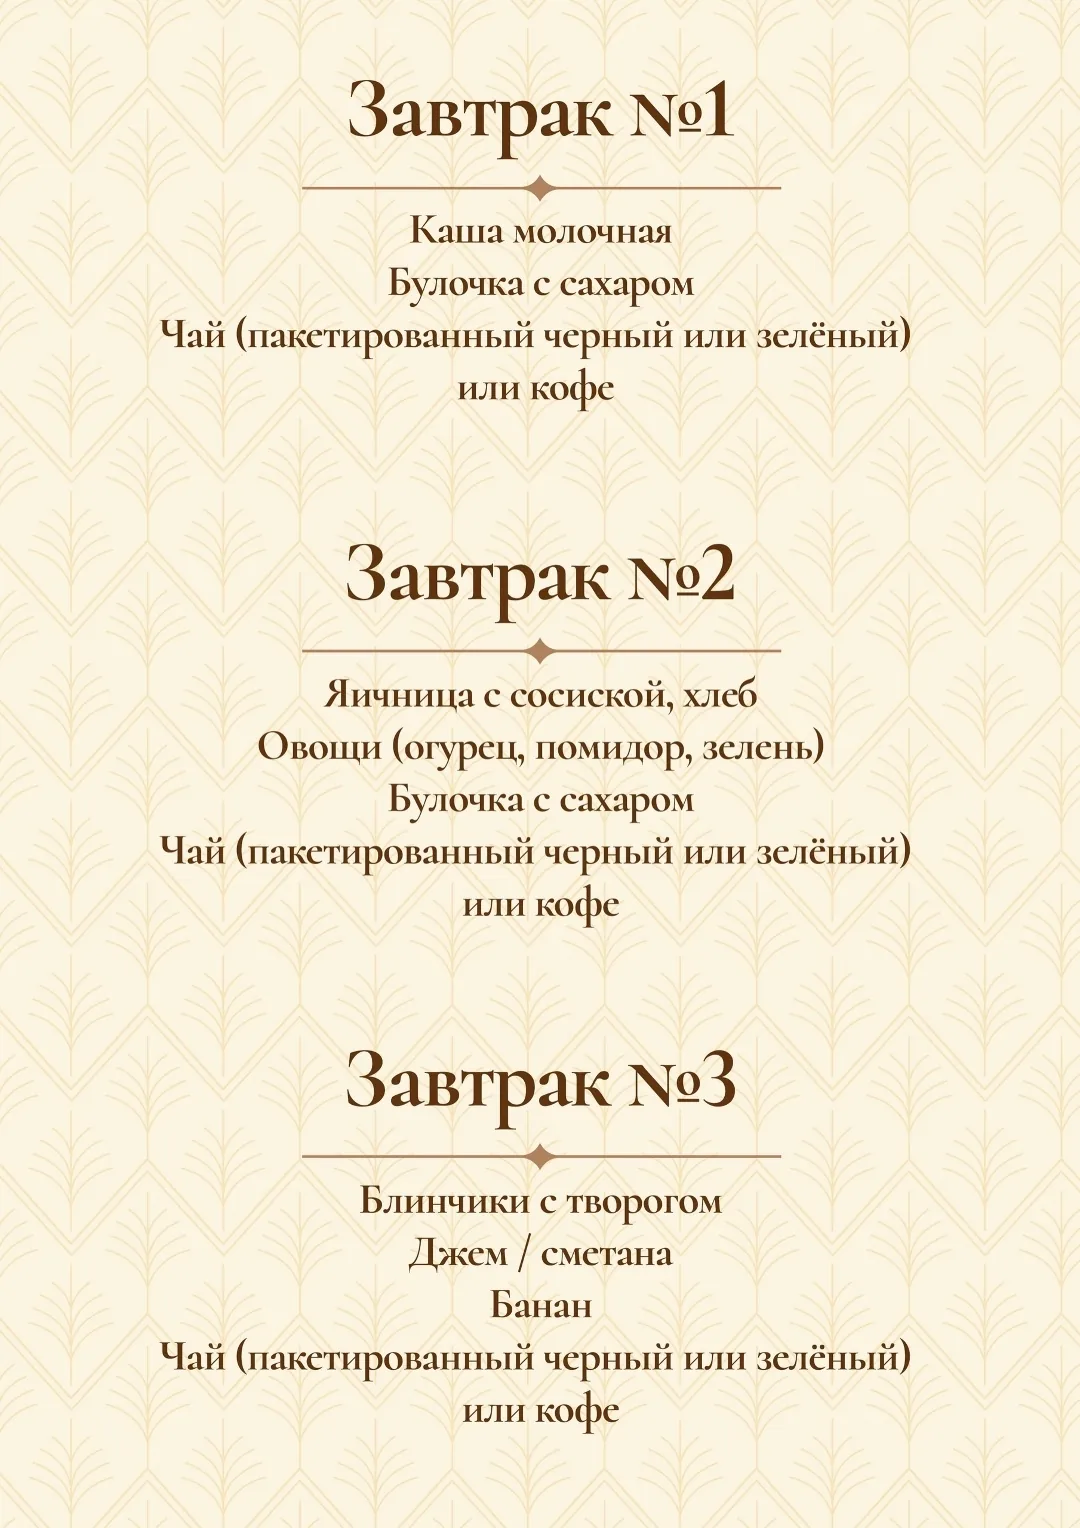
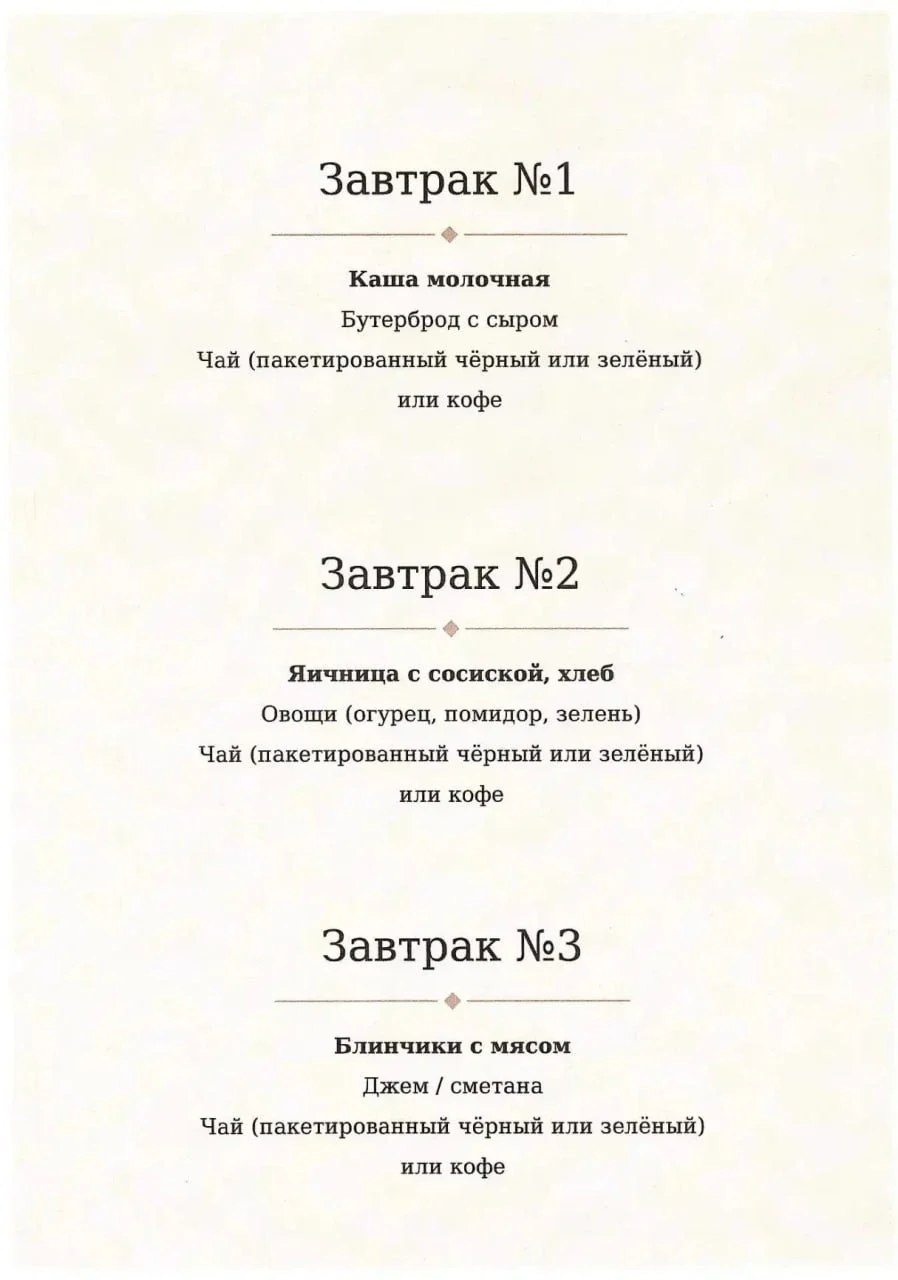
адрес для писем с заявками задаётся в админке, есть тестовое письмо и журнал отправки; на сайте 22 номера, описание номера King Size и актуальное меню завтраков

diff --git a/assets/css/admin.css b/assets/css/admin.css
@@ -28,6 +28,12 @@ button,input,textarea,select { font:inherit; }
 .admin-heading h1 { margin:0; font-size:42px; letter-spacing:-.04em; }
 .admin-heading a { color:var(--accent); font-weight:650; }
 .saved { margin-bottom:22px; padding:13px 16px; border-radius:10px; background:#e0f2e5; color:#21633c; }
+.saved.error { background:#fce9e7; color:#8a332a; }
+.settings-actions { display:flex; flex-wrap:wrap; gap:10px; }
+.settings-actions button { min-width:160px; min-height:46px; padding:0 20px; border:0; border-radius:999px; background:var(--accent); color:#fff; font-weight:700; cursor:pointer; }
+.settings-actions .secondary { background:#fff; color:var(--accent); box-shadow:inset 0 0 0 1px var(--accent); }
+.request-list article > p.notify { margin:-8px 0 16px; padding:0; background:none; font-size:13px; }
+.notify-sent { color:#21633c !important; }.notify-failed { color:#8a332a !important; }.notify-none { color:var(--muted); }
 .editor { padding:30px; border:1px solid var(--line); border-radius:var(--radius); background:var(--panel); display:grid; gap:22px; }
 .editor textarea { resize:vertical; line-height:1.5; }
 .editor > button { justify-self:start; min-width:160px; }

diff --git a/app/bootstrap.php b/app/bootstrap.php
@@ -2,6 +2,7 @@
 declare(strict_types=1);
 
 session_start();
+date_default_timezone_set('Europe/Moscow');
 
 const ROOT_DIR = __DIR__ . '/..';
 const DB_FILE = ROOT_DIR . '/var/parkhotel.sqlite';
@@ -49,6 +50,15 @@ function db(): PDO
         status TEXT NOT NULL DEFAULT "new",
         created_at TEXT NOT NULL
     )');
+    $pdo->exec('CREATE TABLE IF NOT EXISTS settings (
+        key TEXT PRIMARY KEY,
+        value TEXT NOT NULL,
+        updated_at TEXT NOT NULL
+    )');
+    $requestColumns = array_column($pdo->query('PRAGMA table_info(requests)')->fetchAll(), 'name');
+    if (!in_array('notify_status', $requestColumns, true)) {
+        $pdo->exec('ALTER TABLE requests ADD COLUMN notify_status TEXT NOT NULL DEFAULT ""');
+    }
     $pdo->exec("UPDATE requests SET status = 'confirmed' WHERE status IN ('working', 'done')");
     $pdo->exec("UPDATE requests SET status = 'cancelled' WHERE status = 'canceled'");
 
@@ -262,16 +272,102 @@ function save_uploaded_file(array $file): array
     ];
 }
 
-function notify_request(array $request): void
+function setting_get(string $key, string $default = ''): string
 {
-    $email = env_value('PARKHOTEL_NOTIFY_EMAIL');
-    if (!$email) {
-        return;
+    $stmt = db()->prepare('SELECT value FROM settings WHERE key = ?');
+    $stmt->execute([$key]);
+    $value = $stmt->fetchColumn();
+    return $value === false ? $default : (string) $value;
+}
+
+function setting_set(string $key, string $value): void
+{
+    $stmt = db()->prepare('INSERT INTO settings (key, value, updated_at) VALUES (?, ?, ?) ON CONFLICT(key) DO UPDATE SET value = excluded.value, updated_at = excluded.updated_at');
+    $stmt->execute([$key, $value, date(DATE_ATOM)]);
+}
+
+/** Разбирает строку адресов через запятую или точку с запятой. Возвращает [корректные, некорректные]. */
+function parse_email_list(string $raw): array
+{
+    $valid = [];
+    $invalid = [];
+    foreach (preg_split('~[\s,;]+~u', $raw, -1, PREG_SPLIT_NO_EMPTY) ?: [] as $item) {
+        if (filter_var($item, FILTER_VALIDATE_EMAIL)) {
+            $valid[strtolower($item)] ??= $item;
+        } else {
+            $invalid[] = $item;
+        }
+    }
+    return [array_values($valid), $invalid];
+}
+
+/** Адреса получателей заявок: настройка из админки, иначе переменная окружения. */
+function notify_emails(): array
+{
+    $raw = setting_get('notify_email');
+    if (trim($raw) === '') {
+        $raw = (string) env_value('PARKHOTEL_NOTIFY_EMAIL', '');
+    }
+    return parse_email_list($raw)[0];
+}
+
+function mail_from_address(): string
+{
+    return env_value('PARKHOTEL_MAIL_FROM') ?: 'noreply@parkhotelvp.ru';
+}
+
+function mail_log(string $line): void
+{
+    $file = ROOT_DIR . '/var/mail.log';
+    @file_put_contents($file, date(DATE_ATOM) . ' ' . $line . "\n", FILE_APPEND | LOCK_EX);
+}
+
+/** Отправляет текстовое письмо через mail(). Возвращает true, если почтовая служба хоста приняла письмо. */
+function send_mail(string $to, string $subject, string $body): bool
+{
+    $from = mail_from_address();
+    $fromHeader = '=?UTF-8?B?' . base64_encode('Парк-Отель') . '?= <' . $from . '>';
+    $headers = [
+        'From: ' . $fromHeader,
+        'MIME-Version: 1.0',
+        'Content-Type: text/plain; charset=UTF-8',
+        'Content-Transfer-Encoding: base64',
+        'Message-ID: <' . bin2hex(random_bytes(12)) . '@' . substr(strrchr($from, '@'), 1) . '>',
+        'X-Auto-Response-Suppress: All',
+    ];
+    $encodedSubject = '=?UTF-8?B?' . base64_encode(preg_replace('~[\r\n]+~', ' ', $subject)) . '?=';
+    $message = chunk_split(base64_encode($body));
+
+    $sent = @mail($to, $encodedSubject, $message, implode("\r\n", $headers), '-f' . $from);
+    if (!$sent) {
+        $sent = @mail($to, $encodedSubject, $message, implode("\r\n", $headers));
+    }
+    mail_log(($sent ? 'ok   ' : 'FAIL ') . $to . ' | ' . $subject);
+    return $sent;
+}
+
+/** Рассылает заявку получателям. Возвращает статус для списка заявок: sent, failed или none (адрес не задан). */
+function notify_request(array $request): string
+{
+    $emails = notify_emails();
+    if (!$emails) {
+        mail_log('skip  адрес получателя заявок не задан | ' . $request['type']);
+        return 'none';
     }
 
     $subject = 'Новая заявка: ' . $request['type'];
-    $body = "Имя: {$request['name']}\nТелефон: {$request['phone']}";
-    @mail($email, $subject, $body, 'Content-Type: text/plain; charset=UTF-8');
+    $body = "Новая заявка с сайта parkhotelvp.ru\n\n"
+        . "Раздел: {$request['type']}\n"
+        . "Имя: {$request['name']}\n"
+        . "Телефон: {$request['phone']}\n"
+        . 'Время: ' . date('d.m.Y H:i') . "\n\n"
+        . "Все заявки и статусы: https://parkhotelvp.ru/admin\n";
+
+    $sent = 0;
+    foreach ($emails as $email) {
+        $sent += send_mail($email, $subject, $body) ? 1 : 0;
+    }
+    return $sent > 0 ? 'sent' : 'failed';
 }
 
 db();

diff --git a/app/view-admin.php b/app/view-admin.php
@@ -1,6 +1,14 @@
 <?php
-$editing = $adminPage !== 'requests' ? page_by_slug($adminPage) : null;
+$isSettings = $adminPage === 'settings';
+$editing = !in_array($adminPage, ['requests', 'settings'], true) ? page_by_slug($adminPage) : null;
 $statusLabels = ['new' => 'Новая', 'confirmed' => 'Подтверждена', 'cancelled' => 'Отменена'];
+$notifyLabels = ['sent' => 'Письмо отправлено', 'failed' => 'Письмо не отправилось', 'none' => 'Адрес для писем не задан'];
+$mailMessages = [
+    'testok' => ['ok', 'Тестовое письмо передано почтовой службе. Проверьте ящик, а если там пусто, то и папку «Спам».'],
+    'testfail' => ['error', 'Почтовая служба хостинга не приняла письмо. Подробности в var/mail.log на сервере.'],
+    'noaddr' => ['error', 'Сначала укажите адрес и сохраните.'],
+    'badaddr' => ['error', 'В адресе ошибка, настройки не сохранены. Проверьте написание.'],
+];
 ?>
 <!doctype html>
 <html lang="ru">
@@ -15,6 +23,7 @@ $statusLabels = ['new' => 'Новая', 'confirmed' => 'Подтверждена
     <div class="admin-title"><img class="admin-logo" src="/assets/images/logo-mark.png" alt="" width="46" height="46"><b>Парк-Отель</b></div>
     <nav>
         <a class="<?= $adminPage === 'requests' ? 'active' : '' ?>" href="/admin">Заявки <span><?= count(array_filter($requests, fn($r) => $r['status'] === 'new')) ?></span></a>
+        <a class="<?= $isSettings ? 'active' : '' ?>" href="/admin?page=settings">Настройки</a>
         <p>Страницы</p>
         <?php foreach (all_pages() as $item): ?>
             <a class="<?= $adminPage === $item['slug'] ? 'active' : '' ?>" href="/admin?page=<?= e($item['slug']) ?>"><?= e($item['h1']) ?></a>
@@ -24,7 +33,22 @@ $statusLabels = ['new' => 'Новая', 'confirmed' => 'Подтверждена
 </aside>
 <main class="admin-main">
     <?php if (isset($_GET['saved'])): ?><div class="saved">Изменения сохранены</div><?php endif; ?>
-    <?php if ($editing): ?>
+    <?php if (isset($mailMessages[$_GET['mail'] ?? ''])): [$mailClass, $mailText] = $mailMessages[$_GET['mail']]; ?><div class="saved <?= $mailClass ?>"><?= e($mailText) ?></div><?php endif; ?>
+    <?php if ($isSettings): ?>
+        <div class="admin-heading"><div><p>Параметры сайта</p><h1>Настройки</h1></div></div>
+        <form class="editor" method="post">
+            <input type="hidden" name="csrf" value="<?= csrf_token() ?>">
+            <label>Куда присылать заявки
+                <input name="notify_email" type="text" inputmode="email" autocomplete="off" placeholder="name@yandex.ru" value="<?= e(implode(', ', notify_emails())) ?>">
+            </label>
+            <p class="editor-hint">Новая заявка с сайта придёт письмом на этот адрес. Можно указать несколько адресов через запятую. Пустое поле выключает письма, заявки останутся в разделе «Заявки».</p>
+            <div class="settings-actions">
+                <button name="save_settings" value="1">Сохранить</button>
+                <button class="secondary" name="send_test_mail" value="1" formnovalidate>Отправить тестовое письмо</button>
+            </div>
+            <p class="editor-hint">Тестовое письмо уходит на уже сохранённый адрес. Сначала нажмите «Сохранить», потом проверку.</p>
+        </form>
+    <?php elseif ($editing): ?>
         <div class="admin-heading">
             <div><p>Редактирование страницы</p><h1><?= e($editing['h1']) ?></h1></div>
             <a href="<?= $editing['slug'] === 'home' ? '/' : '/' . $editing['slug'] . '/' ?>" target="_blank">Открыть страницу</a>
@@ -65,6 +89,7 @@ $statusLabels = ['new' => 'Новая', 'confirmed' => 'Подтверждена
                 <?php foreach ($requests as $request): ?>
                     <article>
                         <header><div><span class="status status-<?= e($request['status']) ?>"><?= e($statusLabels[$request['status']] ?? 'Новая') ?></span><h2><?= e($request['type']) ?></h2></div><time><?= e(date('d.m.Y H:i', strtotime($request['created_at']))) ?></time></header>
+                        <?php if (!empty($request['notify_status'])): ?><p class="notify notify-<?= e($request['notify_status']) ?>"><?= e($notifyLabels[$request['notify_status']] ?? '') ?></p><?php endif; ?>
                         <dl><div><dt>Имя</dt><dd><?= e($request['name']) ?></dd></div><div><dt>Телефон</dt><dd><a href="tel:<?= e($request['phone']) ?>"><?= e($request['phone']) ?></a></dd></div></dl>
                         <form method="post">
                             <input type="hidden" name="csrf" value="<?= csrf_token() ?>">

diff --git a/index.php b/index.php
@@ -9,15 +9,23 @@ if ($path === 'api/request' && $_SERVER['REQUEST_METHOD'] === 'POST') {
     header('Content-Type: application/json; charset=utf-8');
     try {
         verify_csrf();
-        $name = trim((string) ($_POST['name'] ?? ''));
-        $phone = trim((string) ($_POST['phone'] ?? ''));
-        $type = trim((string) ($_POST['type'] ?? 'Обратная связь'));
+        $name = mb_substr(trim((string) ($_POST['name'] ?? '')), 0, 120);
+        $phone = mb_substr(trim((string) ($_POST['phone'] ?? '')), 0, 40);
+        $type = mb_substr(trim((string) ($_POST['type'] ?? 'Обратная связь')), 0, 80);
         if (mb_strlen($name) < 2 || mb_strlen($phone) < 6) {
             throw new InvalidArgumentException('Укажите имя и телефон.');
         }
         $stmt = db()->prepare('INSERT INTO requests (type, name, phone, email, message, created_at) VALUES (?, ?, ?, ?, ?, ?)');
         $stmt->execute([$type, $name, $phone, '', '', date(DATE_ATOM)]);
-        notify_request(compact('type', 'name', 'phone'));
+        $requestId = (int) db()->lastInsertId();
+        // Заявка уже сохранена: сбой почты не должен ломать ответ посетителю.
+        try {
+            $notifyStatus = notify_request(compact('type', 'name', 'phone'));
+        } catch (Throwable $mailError) {
+            mail_log('FAIL ' . $mailError->getMessage());
+            $notifyStatus = 'failed';
+        }
+        db()->prepare('UPDATE requests SET notify_status = ? WHERE id = ?')->execute([$notifyStatus, $requestId]);
         echo json_encode(['ok' => true, 'message' => 'Заявка принята. Администратор свяжется с вами.'], JSON_UNESCAPED_UNICODE);
     } catch (Throwable $e) {
         http_response_code(422);
@@ -76,13 +84,35 @@ if (str_starts_with($path, 'admin')) {
                 sanitize_content_html((string) $_POST['body']), date(DATE_ATOM), (string) $_POST['slug'],
             ]);
         }
+        $flash = [];
+        if (isset($_POST['save_settings'])) {
+            $raw = trim((string) ($_POST['notify_email'] ?? ''));
+            [$valid, $invalid] = parse_email_list($raw);
+            if ($invalid) {
+                $flash = ['mail' => 'badaddr'];
+            } else {
+                setting_set('notify_email', implode(', ', $valid));
+            }
+        }
+        if (isset($_POST['send_test_mail'])) {
+            $emails = notify_emails();
+            if (!$emails) {
+                $flash = ['mail' => 'noaddr'];
+            } else {
+                $ok = 0;
+                foreach ($emails as $email) {
+                    $ok += send_mail($email, 'Проверка почты сайта Парк-Отеля', "Это тестовое письмо из админки parkhotelvp.ru.\nЕсли вы его читаете, заявки с сайта будут приходить на этот адрес.\n\nВремя: " . date('d.m.Y H:i') . "\n") ? 1 : 0;
+                }
+                $flash = ['mail' => $ok > 0 ? 'testok' : 'testfail'];
+            }
+        }
         if (isset($_POST['request_status'])) {
             $allowed = ['new', 'confirmed', 'cancelled'];
             $status = in_array($_POST['status'] ?? '', $allowed, true) ? $_POST['status'] : 'new';
             $stmt = db()->prepare('UPDATE requests SET status=? WHERE id=?');
             $stmt->execute([$status, (int) $_POST['request_id']]);
         }
-        header('Location: /admin?' . http_build_query(['page' => $_GET['page'] ?? 'requests', 'saved' => 1]));
+        header('Location: /admin?' . http_build_query(['page' => $_GET['page'] ?? 'requests'] + ($flash ?: ['saved' => 1])));
         exit;
     }
 

diff --git a/app/pages.php b/app/pages.php
@@ -9,10 +9,33 @@ return [
     ],
     'nomera' => [
         'title' => 'Номера в гостинице Вятские Поляны - цены и фото',
-        'description' => 'Комфортные номера Парк-Отеля в Вятских Полянах. Завтрак и парковка для гостей.',
+        'description' => '22 номера с новым ремонтом в Парк-Отеле Вятских Полян. Завтрак на выбор и посещение бассейна включены в проживание.',
         'h1' => 'Номера для спокойного отдыха',
-        'intro' => '26 номеров: один люкс и 25 двухместных номеров.',
-        'body' => 'В каждом номере есть всё необходимое для отдыха после дороги или рабочего дня. Актуальные категории, оснащение и цены дополнит администратор.',
+        'intro' => '22 номера с новым ремонтом. В проживание входят завтрак на выбор и посещение бассейна.',
+        'body' => '<h2>Двухместный номер с кроватью King Size</h2>'
+            . '<p>Все номера с новым ремонтом.</p>'
+            . '<h3>В номере</h3>'
+            . '<ul>'
+            . '<li>Двуспальная кровать King Size</li>'
+            . '<li>Телевизор, кондиционер, холодильник</li>'
+            . '<li>Wi-Fi, фен</li>'
+            . '<li>Стул, две прикроватные тумбы, два светильника</li>'
+            . '<li>Душевая</li>'
+            . '<li>Отдельный санузел с раковиной и феном</li>'
+            . '<li>Косметические принадлежности: зубная щётка, шампунь, гель для душа, мыло</li>'
+            . '<li>Халат, тапочки, полотенца</li>'
+            . '<li>На этаже: кулер с питьевой водой</li>'
+            . '<li>Детская кроватка — по запросу (для детей до 3 лет)</li>'
+            . '</ul>'
+            . '<h3>Включено в проживание</h3>'
+            . '<ul><li>Завтрак на выбор</li><li>Посещение бассейна</li></ul>'
+            . '<h2>Завтраки на выбор</h2>'
+            . '<h3>Завтрак №1</h3>'
+            . '<p>Каша молочная, бутерброд с сыром, чай (пакетированный чёрный или зелёный) или кофе.</p>'
+            . '<h3>Завтрак №2</h3>'
+            . '<p>Яичница с сосиской, хлеб, овощи (огурец, помидор, зелень), чай (пакетированный чёрный или зелёный) или кофе.</p>'
+            . '<h3>Завтрак №3</h3>'
+            . '<p>Блинчики с мясом, джем или сметана, чай (пакетированный чёрный или зелёный) или кофе.</p>',
     ],
     'basseyn' => [
         'title' => 'Бассейн в Вятских Полянах - расписание и цены',

diff --git a/app/view-site.php b/app/view-site.php
@@ -103,7 +103,7 @@ $requestType = match ($slug) {
     </section>
 
     <section class="facts" aria-label="Преимущества">
-        <div><strong>26</strong><span>номеров</span></div>
+        <div><strong>22</strong><span>номеров</span></div>
         <div><strong>Включён</strong><span>завтрак</span></div>
         <div><strong>На месте</strong><span>парковка</span></div>
         <div><strong>Рядом</strong><span>городской парк</span></div>
